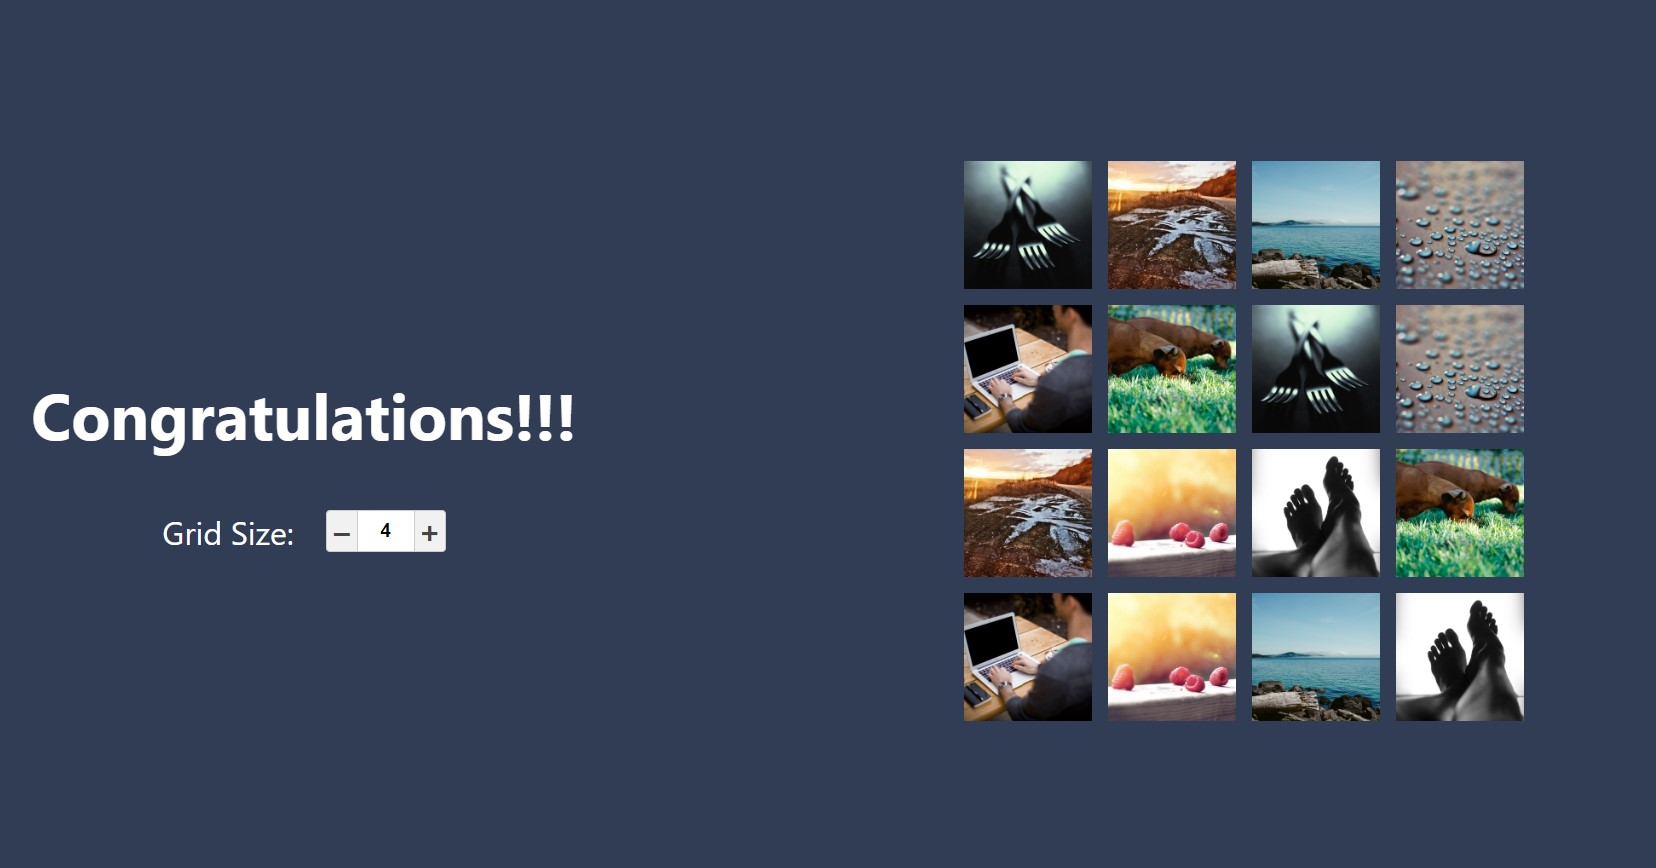
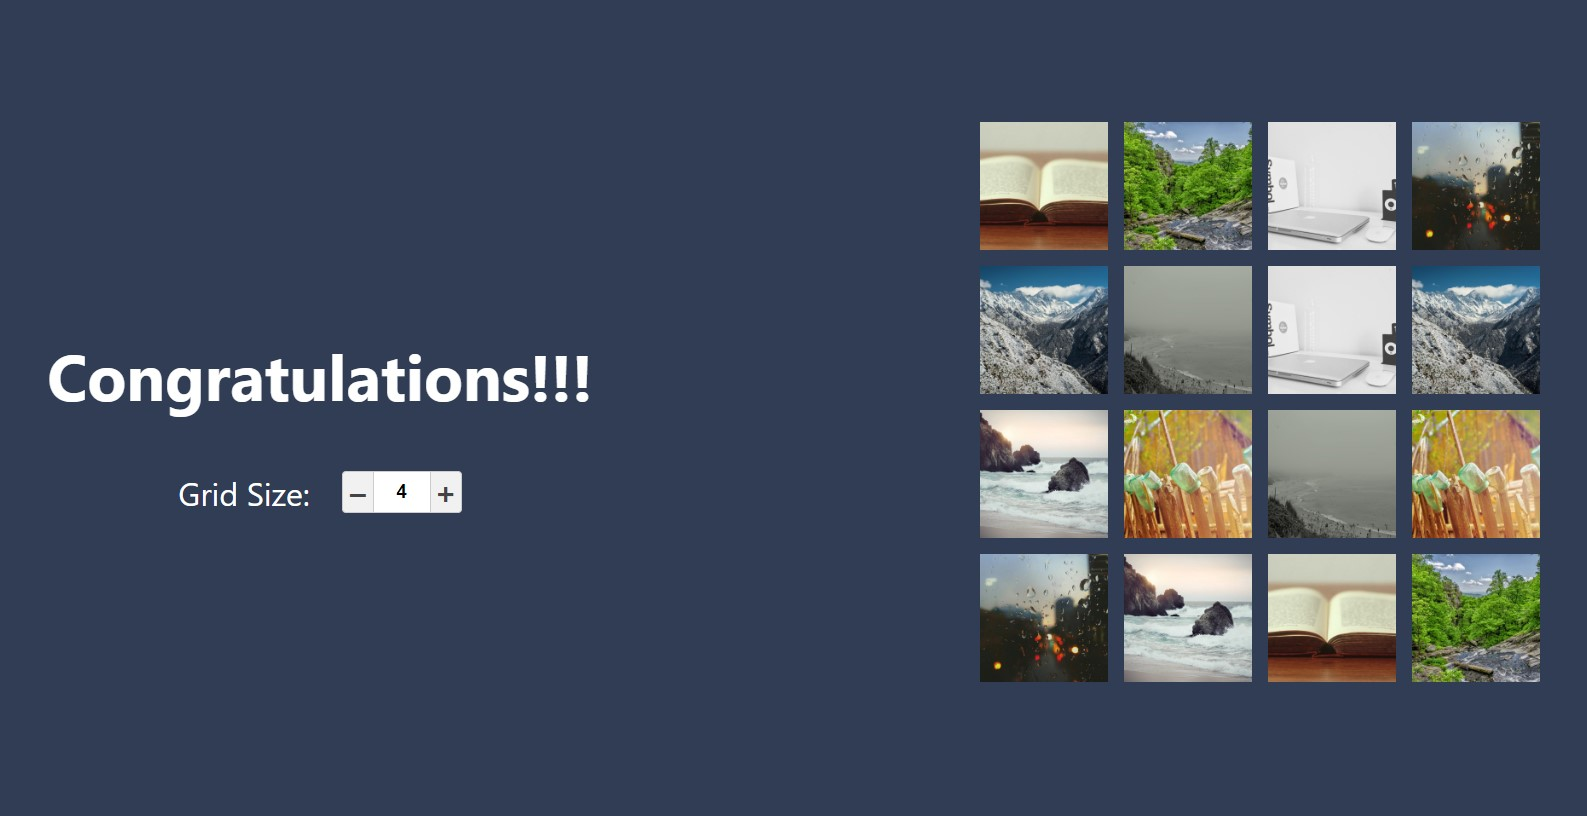
added preview on Readme

Changed region(s): [[0.5558, 0.1225, 0.988, 0.8578], [0.0, 0.4289, 0.3705, 0.5208], [0.0926, 0.5515, 0.3088, 0.6434]]

diff --git a/README.md b/README.md
@@ -1,6 +1,10 @@
-# SPREAD Memory
+# Memory Game
 
 Simple Memory Game that enables you to set the grid size.
+
+## Screenshots
+
+![Desktop Preview](desktop-preview.jpg)
 
 ### Background
 
@@ -21,9 +25,7 @@ and lay foundation for the product that emerged (mostly fixing typescript errors
 
 ### The Next Mile
 
-- Apply unit tests and component tests using Jest
-
-This project was bootstrapped with [Create React App](https://github.com/facebook/create-react-app).
+- Apply unit tests and component tests using Jest.
 
 ## Available Scripts
 
